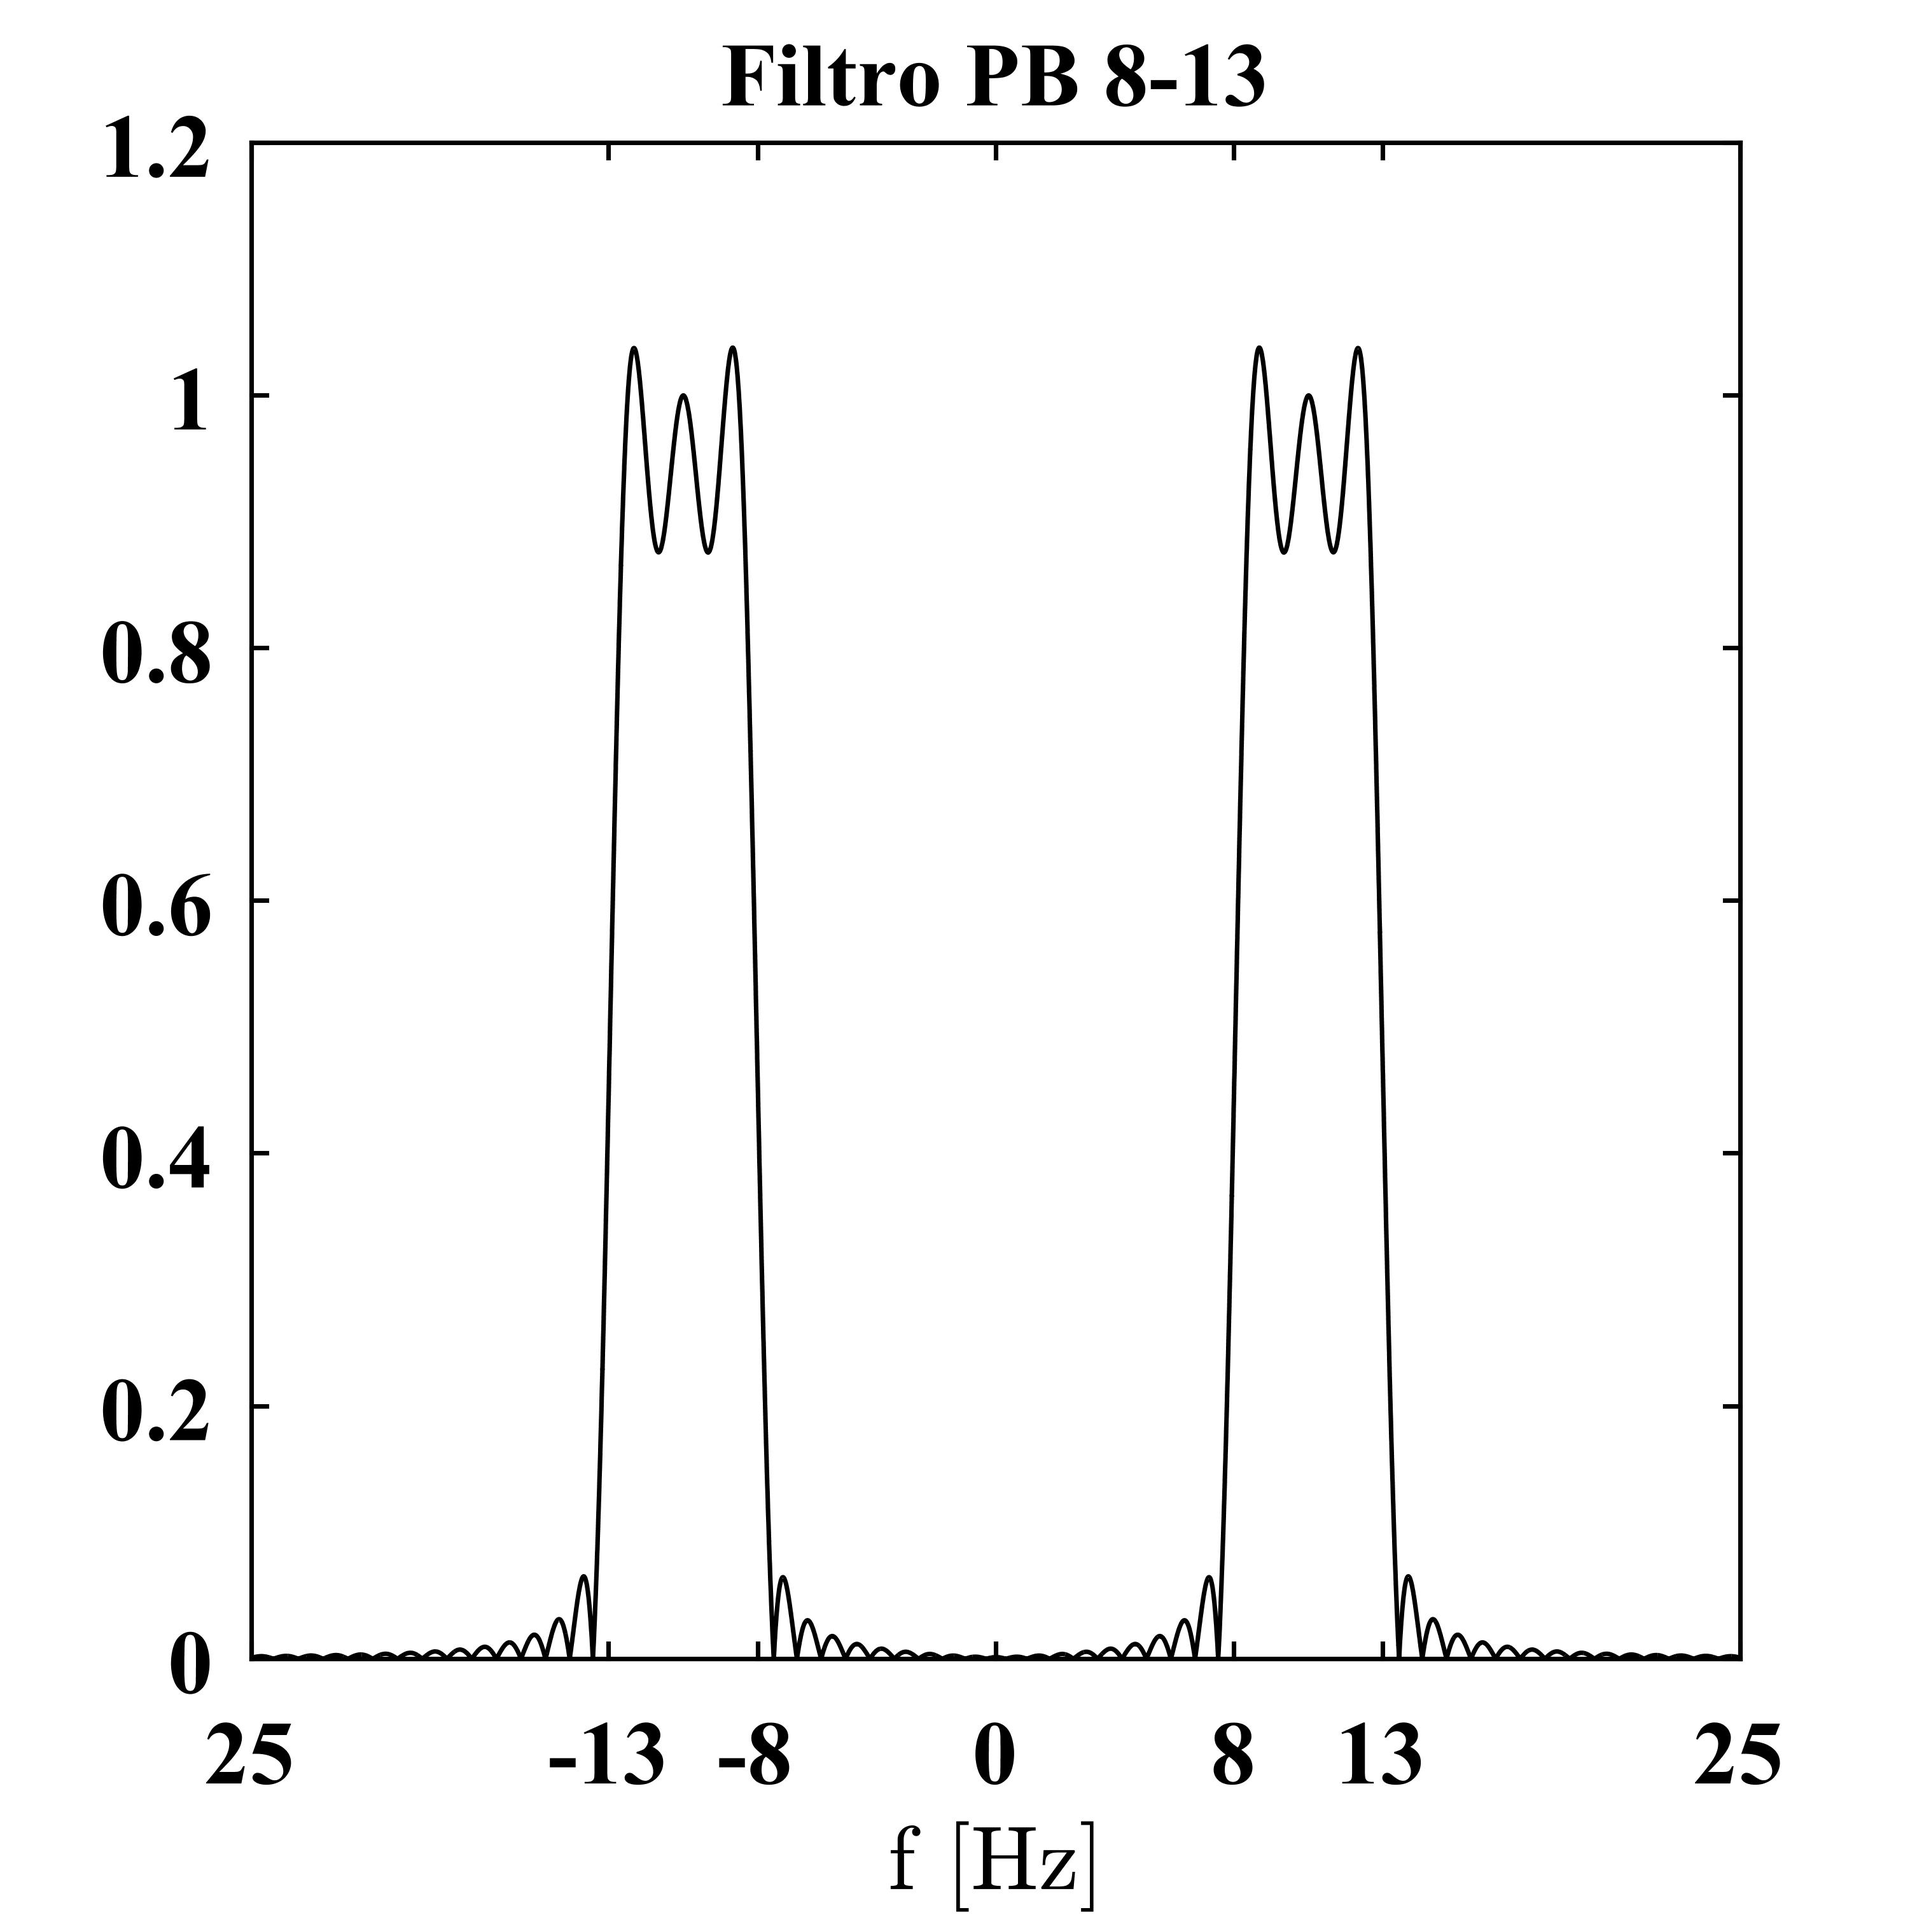
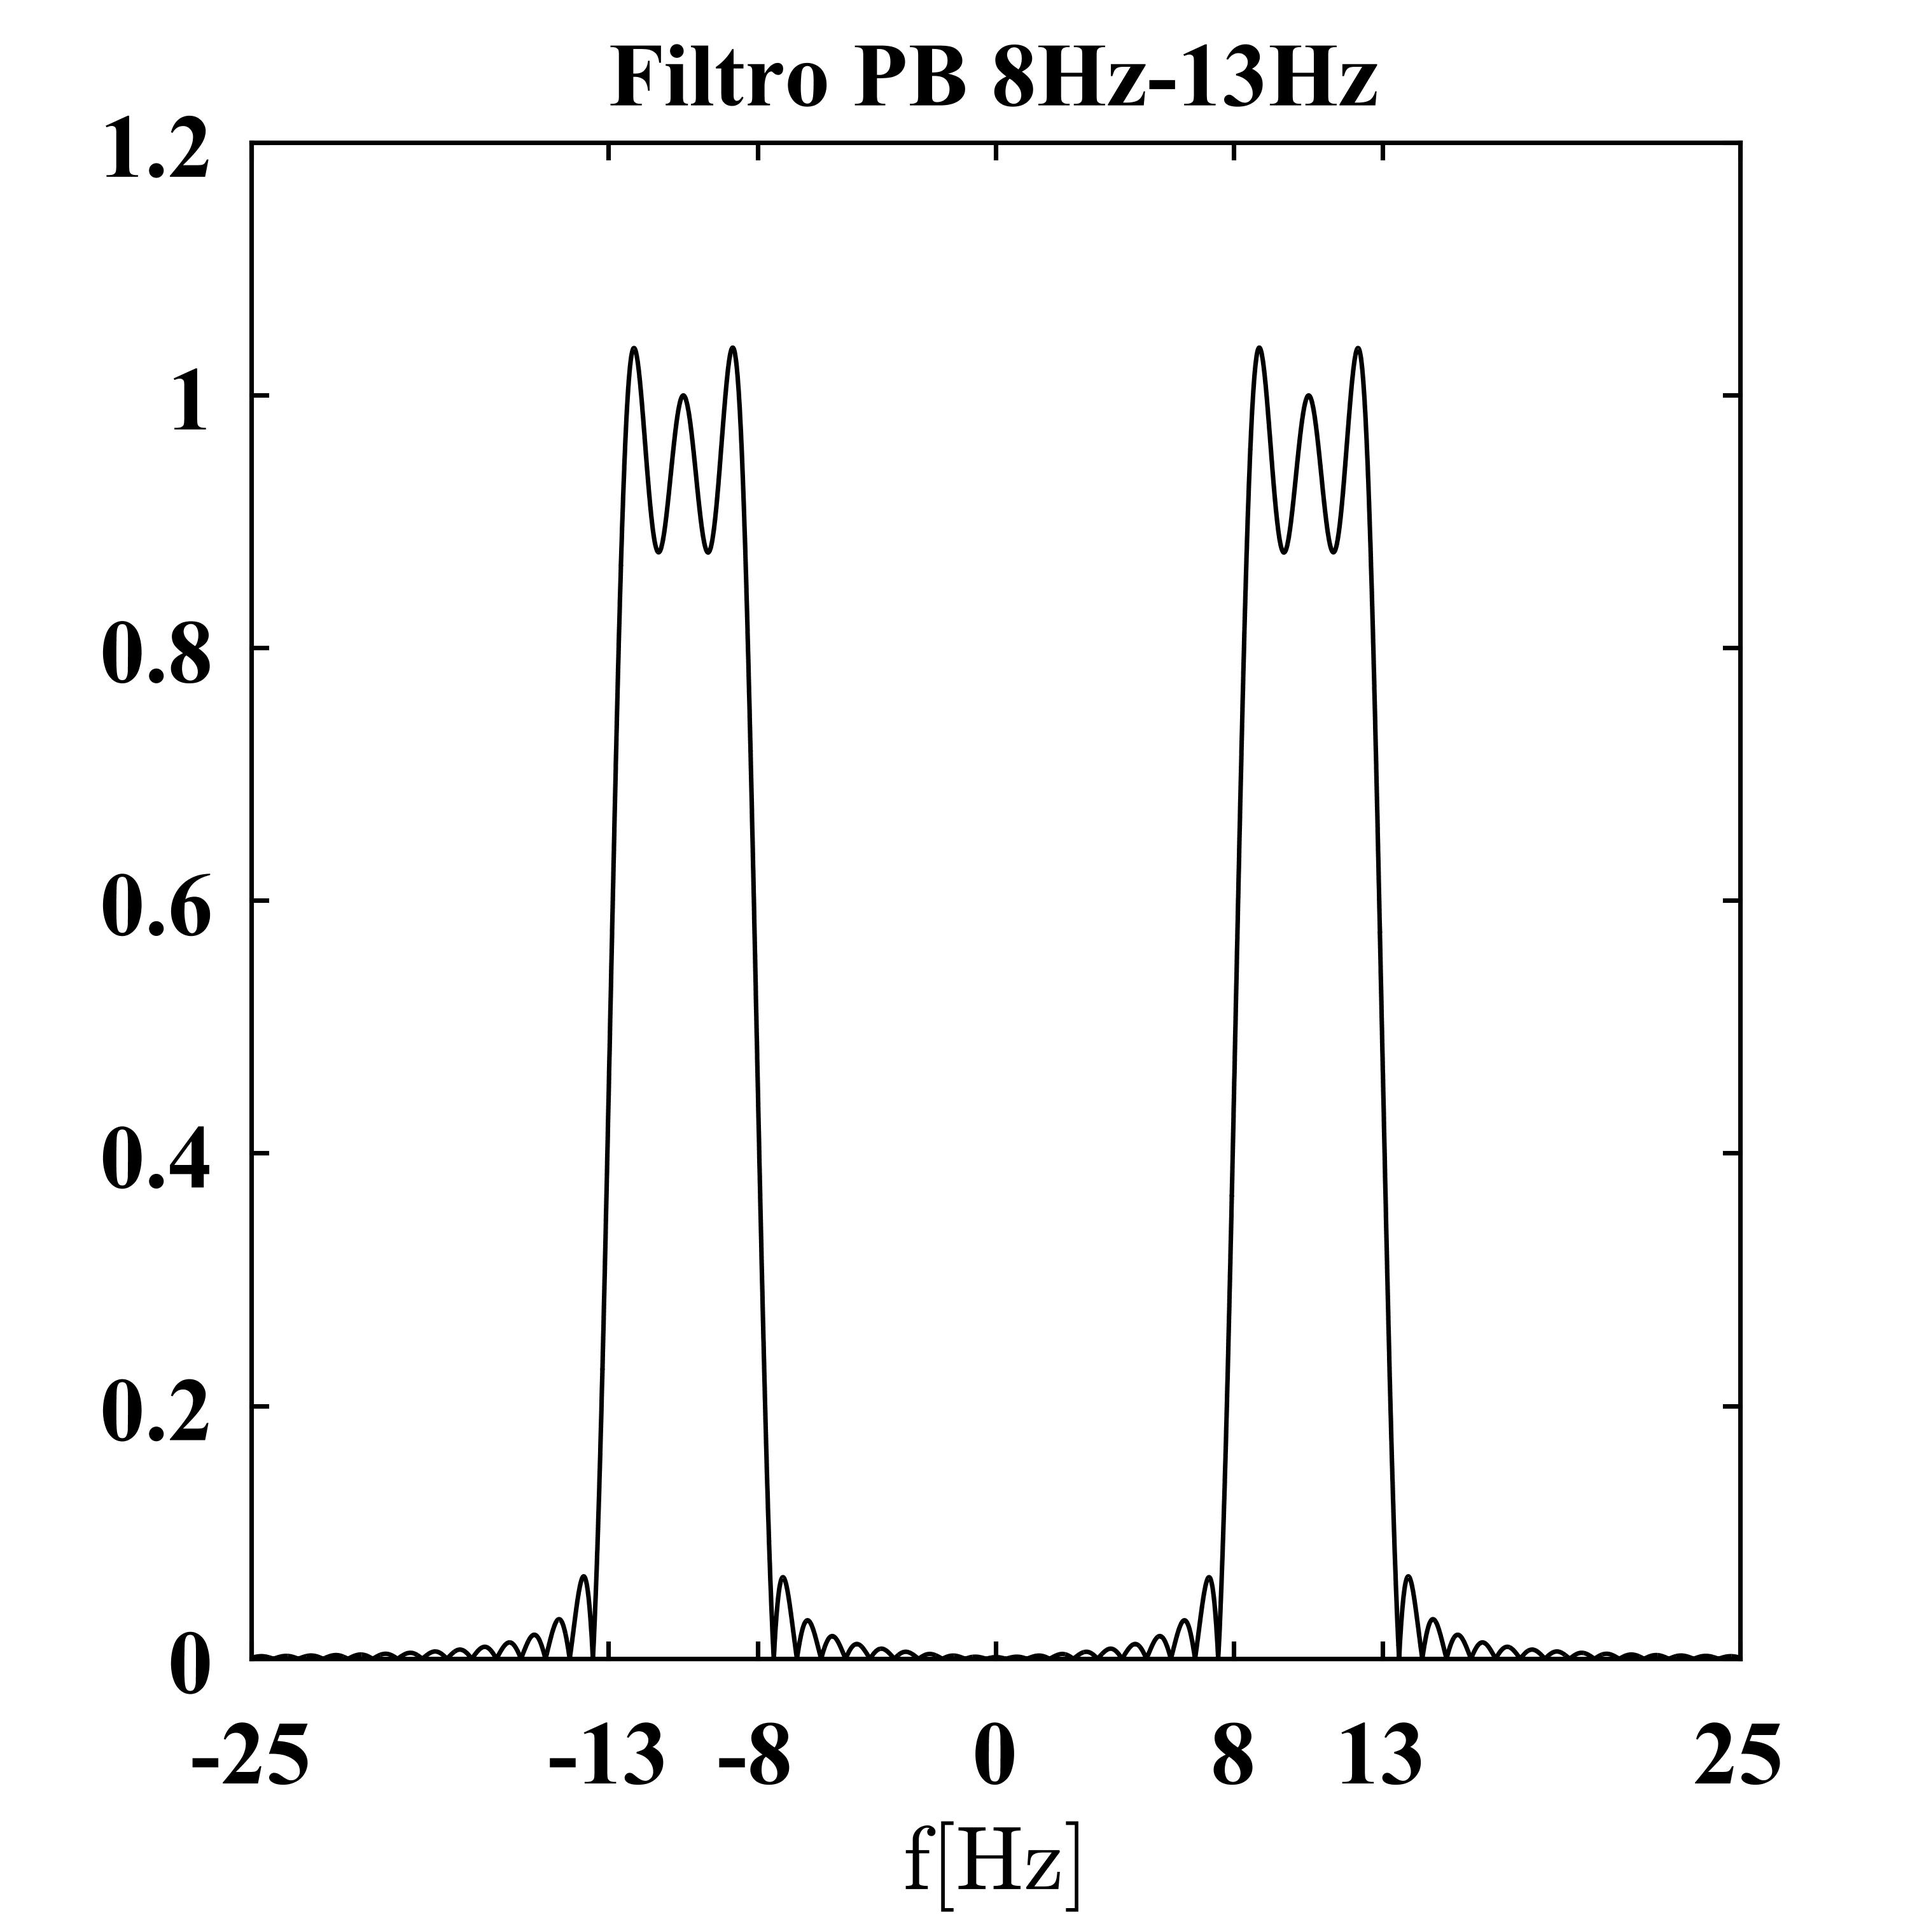
Agregué Xticks y xticks labels en filtro eeg

diff --git a/pu2_eeg.m b/pu2_eeg.m
@@ -26,7 +26,9 @@ load('.\filtros\filtroBP_8-13.mat');
 eeg_f=filter(BP,eeg);
 plotCompleto([0 t(end) min(eeg_f)*1.1 max(eeg_f)*1.1], 't[s]', '', 'Encefalograma filtrado', 20, 'r-', 0.5, t, eeg_f);
 
-plotFiltros(BP, f,fs,[-25'Filtro PB 8-13');
+plotFiltros(BP, f,fs,[-25 25 0 1.2], 'Filtro PB 8Hz-13Hz');
+xticks([-25, -13, -8, 0, 8,13, 25]);xticklabels({'-25','-13','-8', '0', '8','13', '25'});xlabel("f[Hz]");
+
 [EEG_f_s, ~] = fft_kit(eeg_f, fs);
 stemCompleto([-fs/2 fs/2 0 5e4],'f [Hz]', '', '|EEG_f|', 20, 'b.-', 1, f, abs(EEG_f_s));
 
